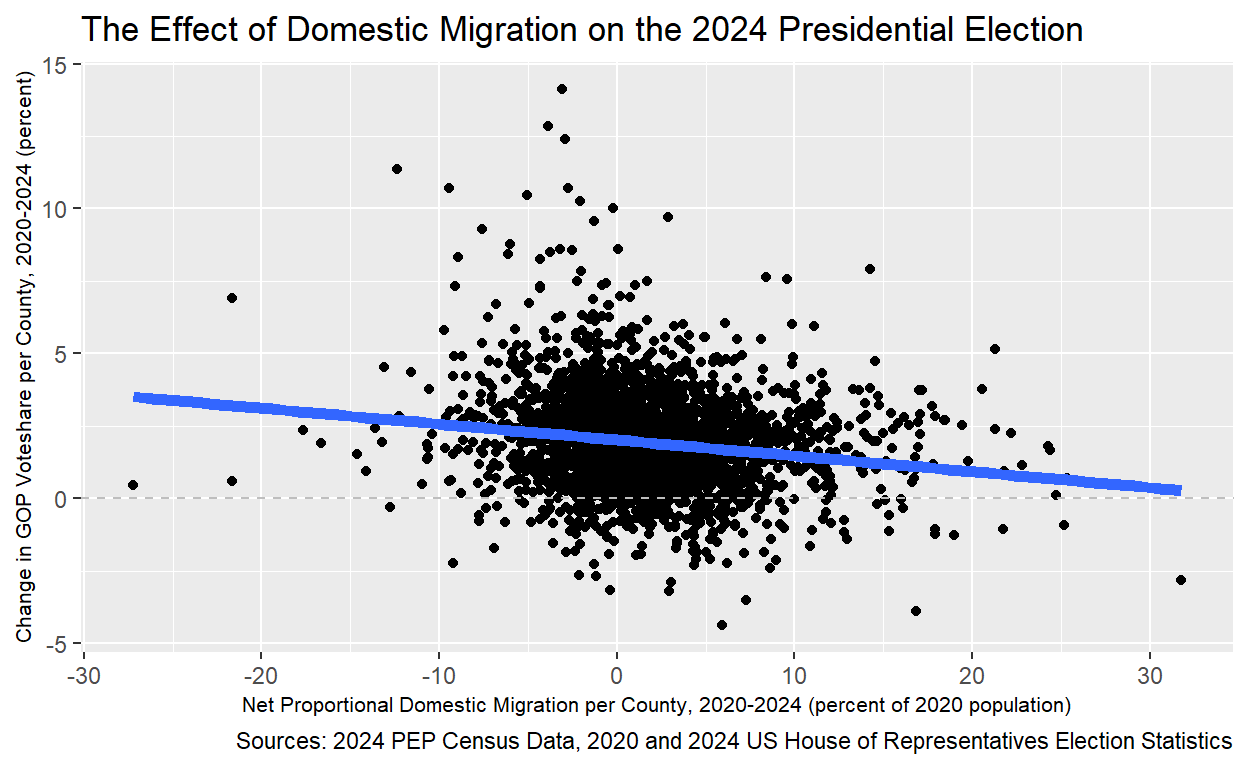
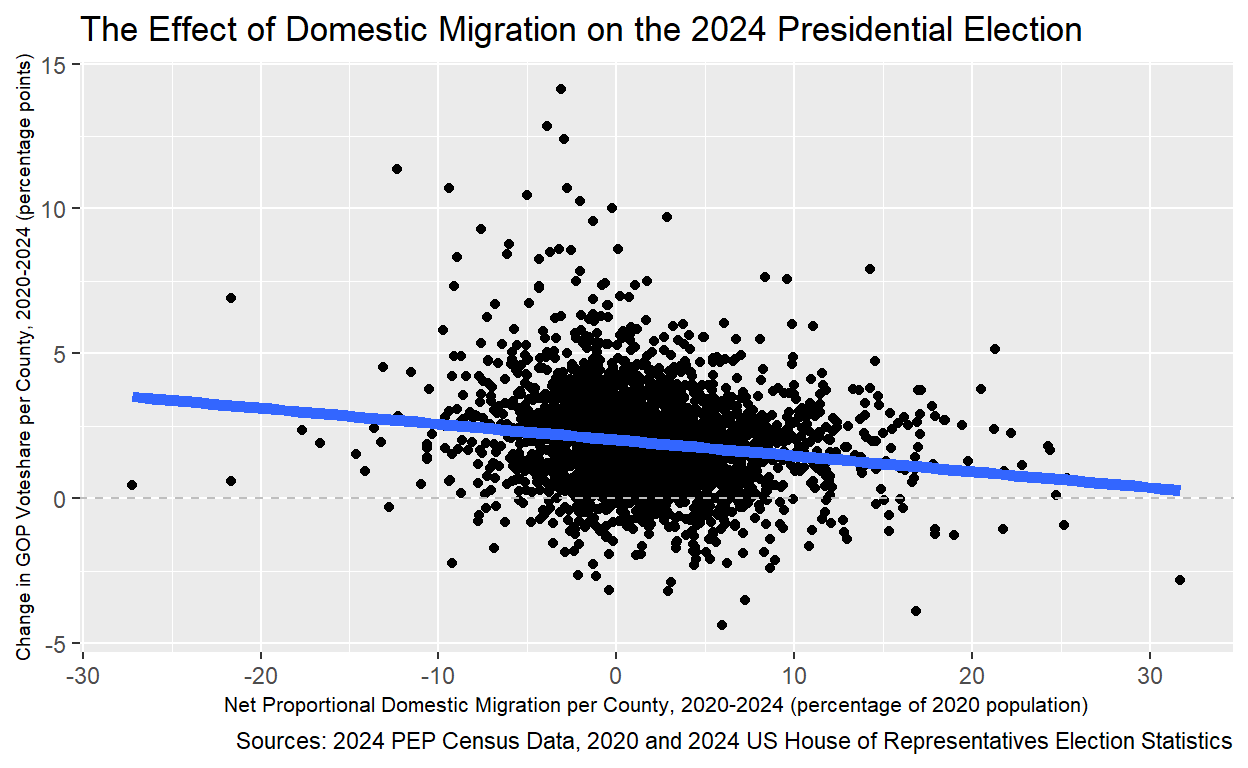
Main Analysis plus clean up

diff --git a/index.html b/index.html
@@ -1550,33 +1550,22 @@ code span.wa { color: #5e5e5e; font-style: italic; } /* Warning */
 
 </div>
 <div class="layout-chunk" data-layout="l-body">
-<pre><code># A tibble: 48 × 4
-   state_name     gop_change dom_mig_per population_2020
-   &lt;chr&gt;               &lt;dbl&gt;       &lt;dbl&gt;           &lt;dbl&gt;
- 1 Idaho              0.0306      0.0654         1839140
- 2 South Carolina     0.0312      0.0615         5118252
- 3 Montana            0.0167      0.0493         1084216
- 4 Delaware           0.0209      0.0468          989955
- 5 Florida            0.0487      0.0405        21538192
- 6 North Carolina     0.0110      0.0375        10441499
- 7 Tennessee          0.0353      0.0365         6912347
- 8 Maine              0.0124      0.0360         1363196
- 9 Arizona            0.0317      0.0353         7158110
-10 Nevada             0.0293      0.0262         3105595
-# ℹ 38 more rows</code></pre>
+
 </div>
+<h1 id="analysis-of-main-relationship">Analysis of Main Relationship</h1>
 <div class="layout-chunk" data-layout="l-body">
 <p><img src="index_files/figure-html5/unnamed-chunk-3-1.png" alt="" width="624" /></p>
-<pre><code>
-This first graph simply plots each county in every state except for Alaska and Connecticut based on their net proportional domestic migration between the 2020 and 2024 elections and the change in the percent of votes that went to the GOP from the 2020 election to the 2024 election. The dashed line represents no change in vote share and the blue line represents the line of best fit. This graph has a clear negative correlation, meaning that as net proportional domestic migration increases the change in percent votes for the GOP in that county is, on average, likely to decrease. There are some flaws in this graph that hinder a perfect representation. The first flaw is that the national vote share for the GOP has not remained constant between 2020 and 2024; in fact, it increased by 2.95%.</code></pre>
-<pre><code>NULL</code></pre>
 </div>
+<p>This first graph simply plots each county in every state except for Alaska and Connecticut based on their net proportional domestic migration between the 2020 and 2024 elections and the change in the percent of votes that went to the GOP from the 2020 election to the 2024 election. The dashed line represents no change in vote share and the blue line represents the line of best fit. This graph has a clear negative correlation, meaning that as net proportional domestic migration increases the change in percent votes for the GOP in that county is, on average, likely to decrease. There are some flaws in this graph that hinder a perfect representation. The first flaw is that the national vote share for the GOP has not remained constant between 2020 and 2024; in fact, it increased by 2.95 percentage points.</p>
 <div class="layout-chunk" data-layout="l-body">
 <p><img src="index_files/figure-html5/unnamed-chunk-4-1.png" alt="" width="624" /></p>
 </div>
+<p>This graph adjusts the former graph by showing the change of the percent of GOP votes from the national average. In other words, this value is found by subtracting the GOP percent in 2020 from 2024. This value is 2.95 percentage points (the same calculation for Democrats was -2.99 percentage points, so the third party share’s change was negligible). This table shows the exact same relationship as the previous graph, it is just adjusted so the vast swing of the national vote share doesn’t misrepresent the changes in each county. There is still another issue: not all these counties have the same population.</p>
 <div class="layout-chunk" data-layout="l-body">
 <p><img src="index_files/figure-html5/unnamed-chunk-5-1.png" alt="" width="624" /></p>
 </div>
+<p>This third graph does the same thing as the second, except the line of best fit is calculated by weighting each data point (county) by its population. This means counties with a greater population will be considered as more consequential than one with a smaller population. Basically, if one county is 10,000 and the other 100,000, then the latter is weighted more. This graph shows that the magnitude of the negative relationship is actually greater when adjusted for population (more negative slope for the line of best fit), meaning this trend is possibly more common among more urban counties.</p>
+<h1 id="urban-vs.-rural-work-in-progress">Urban vs. Rural (work in progress)</h1>
 <div class="layout-chunk" data-layout="l-body">
 <p><img src="index_files/figure-html5/unnamed-chunk-6-1.png" alt="" width="624" /></p>
 </div>
@@ -1586,7 +1575,7 @@ This first graph simply plots each county in every state except for Alaska and C
 <div class="layout-chunk" data-layout="l-body">
 <p><img src="index_files/figure-html5/unnamed-chunk-8-1.png" alt="" width="624" /></p>
 </div>
-<div class="sourceCode" id="cb4"><pre class="sourceCode r distill-force-highlighting-css"><code class="sourceCode r"></code></pre></div>
+<div class="sourceCode" id="cb1"><pre class="sourceCode r distill-force-highlighting-css"><code class="sourceCode r"></code></pre></div>
 <!--radix_placeholder_article_footer-->
 <!--/radix_placeholder_article_footer-->
 </div>
